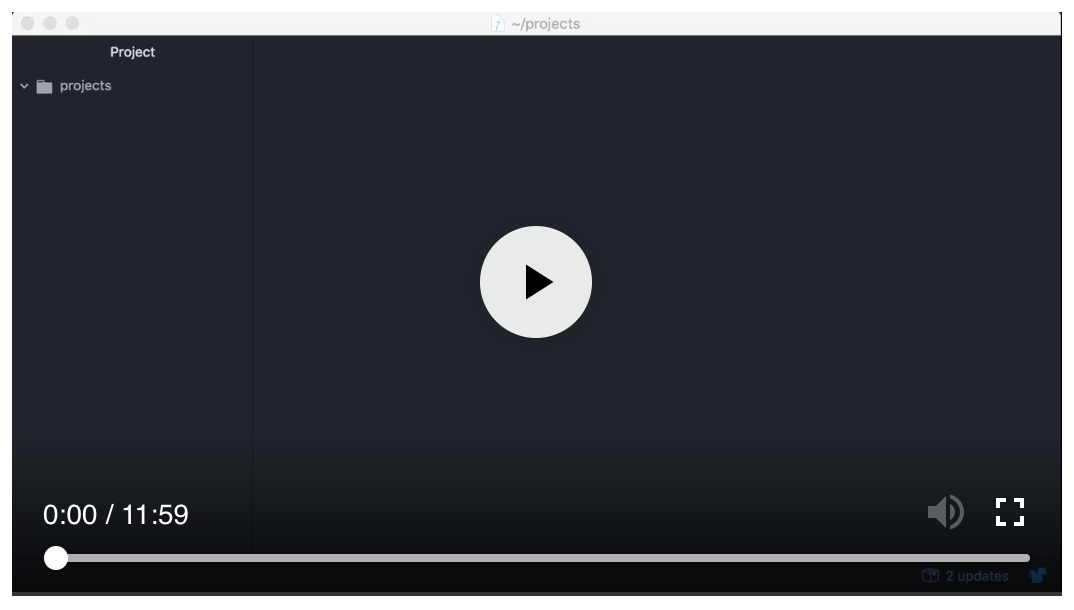
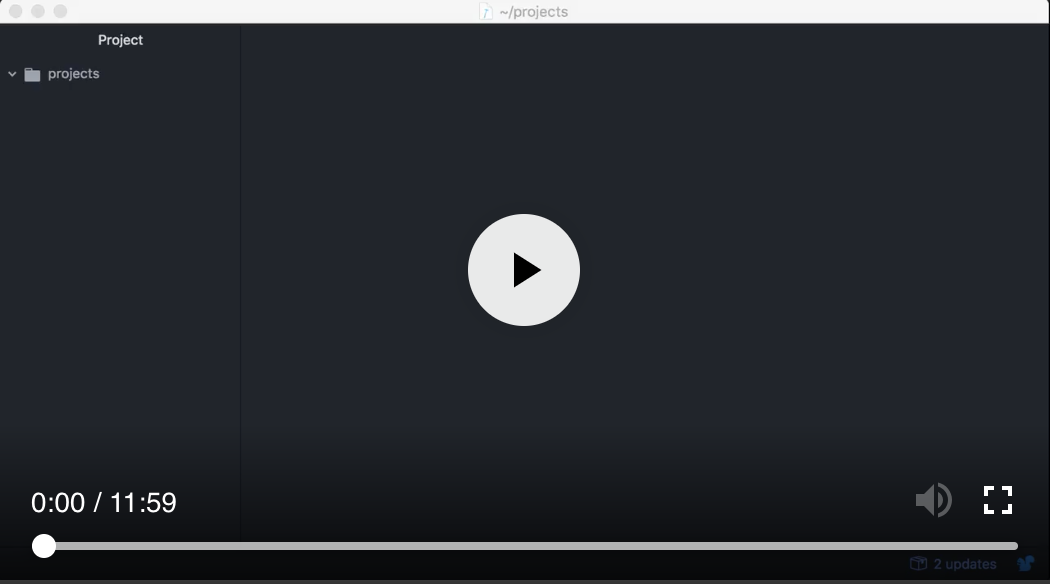
Shrink Images

diff --git a/index.html b/index.html
@@ -268,11 +268,11 @@
                         </div>
                         <div class="col-md-6">
                             <div class="embed-responsive- vdo-wrap- embed-responsive embed-responsive-16by9">
-                                <iframe class="embed-responsive-item" src="assets/video/beginner-tutorial.mp4" allowfullscreen></iframe>
+                                <!-- <iframe class="embed-responsive-item" src="assets/video/beginner-tutorial.mp4" allowfullscreen></iframe> -->
                                 <!-- <video controls>
                                     <source src="assets/video/beginner-tutorial.mp4" type="video/mp4">
                                 </video> -->
-                                <!-- <a href="assets/video/beginner-tutorial.mp4" target="_blank"><img src="assets/img/beginner-tutorial.png" width="100%"></a> -->
+                                <a href="assets/video/beginner-tutorial.mp4" target="_blank"><img src="assets/img/beginner-tutorial.png" width="100%"></a>
                             </div>
                         </div>
                     </div>

diff --git a/assets/css/style.css b/assets/css/style.css
@@ -5784,7 +5784,7 @@ address p {
 }
 
 .banner-app {
-    background-image: url("../img/app/app_banner2_faded.png") !important;
+    background-image: url("../img/app/app_banner3_faded.png") !important;
 }
 
 .banner-para {
